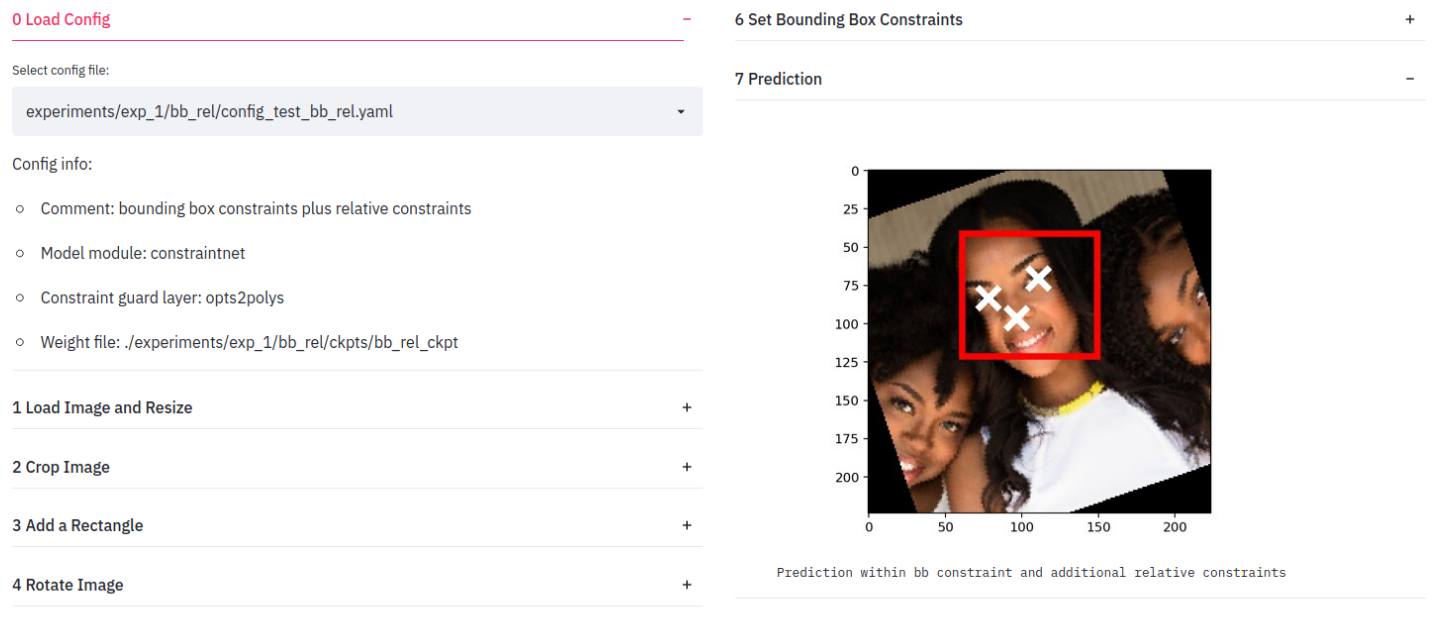
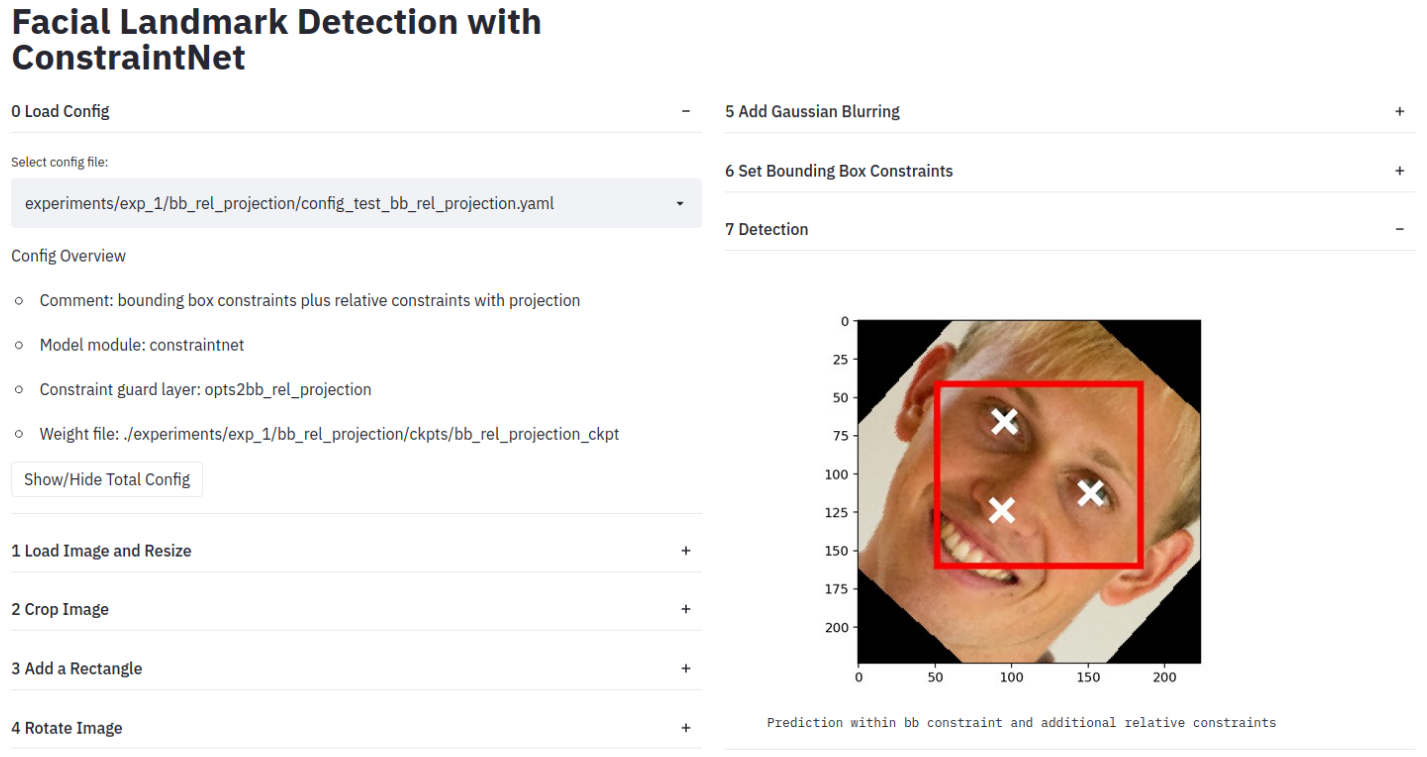
readme updated

diff --git a/streamlit_app.py b/streamlit_app.py
@@ -33,7 +33,7 @@ with dest.open('r') as f:
 
 
 st.write("""
-        # Facial Landmark Prediction with ConstraintNet
+        # Facial Landmark Detection with ConstraintNet
         """)
 
 ################################
@@ -45,7 +45,7 @@ st.write("""
 #        """)
 
 
-def file_selector_config(folder_path=Path('./experiments/')):
+def file_selector_config(widget_values, folder_path=Path('./experiments/')):
     filenames = [f for f in folder_path.glob('**/config_test*.yaml') if not
         'sector_of_a_circle' in str(f)]
     index = 0
@@ -53,8 +53,7 @@ def file_selector_config(folder_path=Path('./experiments/')):
         if Path(widget_values['file_config']) == filename:
             index = i
             break
-    selected_filename = st.selectbox('Select config file:', filenames) #, index=index)
-    widget_values['file_config'] = str(selected_filename)
+    selected_filename = st.selectbox('Select config file:', filenames, index=index)
     return selected_filename
 
 
@@ -71,7 +70,7 @@ def dict2opts(opts_dict):
 opts = 0
 with st.beta_expander('0 Load Config', expanded=True):
     file_config = Path(widget_values['file_config'])
-    file_config = file_selector_config()
+    file_config = file_selector_config(widget_values)
     widget_values['file_config'] = str(file_config)
 
     opts_dict = OptManager.yaml2dict(file_config)
@@ -437,12 +436,12 @@ if ("exp_1" in str(file_config) and "bb" in str(file_config)):
 #Apply ConstraintNet############
 ################################
 #st.write("""
-#        ## Prediction
+#        ## Detection
 #        """)
-pred_name = '6 Prediction'
+pred_name = '6 Detection'
 if ("exp_1" in str(file_config) and "bb" in str(file_config)) or ("triangle" in
         str(file_config)):
-    pred_name = '7 Prediction'
+    pred_name = '7 Detection'
 
 with st.beta_expander(pred_name, expanded=True):
     #load model from opts

diff --git a/readme.md b/readme.md
@@ -45,8 +45,9 @@ run:
 streamlit run streamlit_app.py
 ```
 The app allows to load a config file and an image, to adjust the preprocessing steps
-(cropping, adding a rectangle, rotating, Gaussian blurring), andto set the output constraints.
-For the configured settings, a live detection is performed.
+(cropping, adding a rectangle, rotating, Gaussian blurring), and to set the output constraints.
+For the configured settings, a live detection is performed. You can load images
+from the directory *pics/*.
 
 
 
